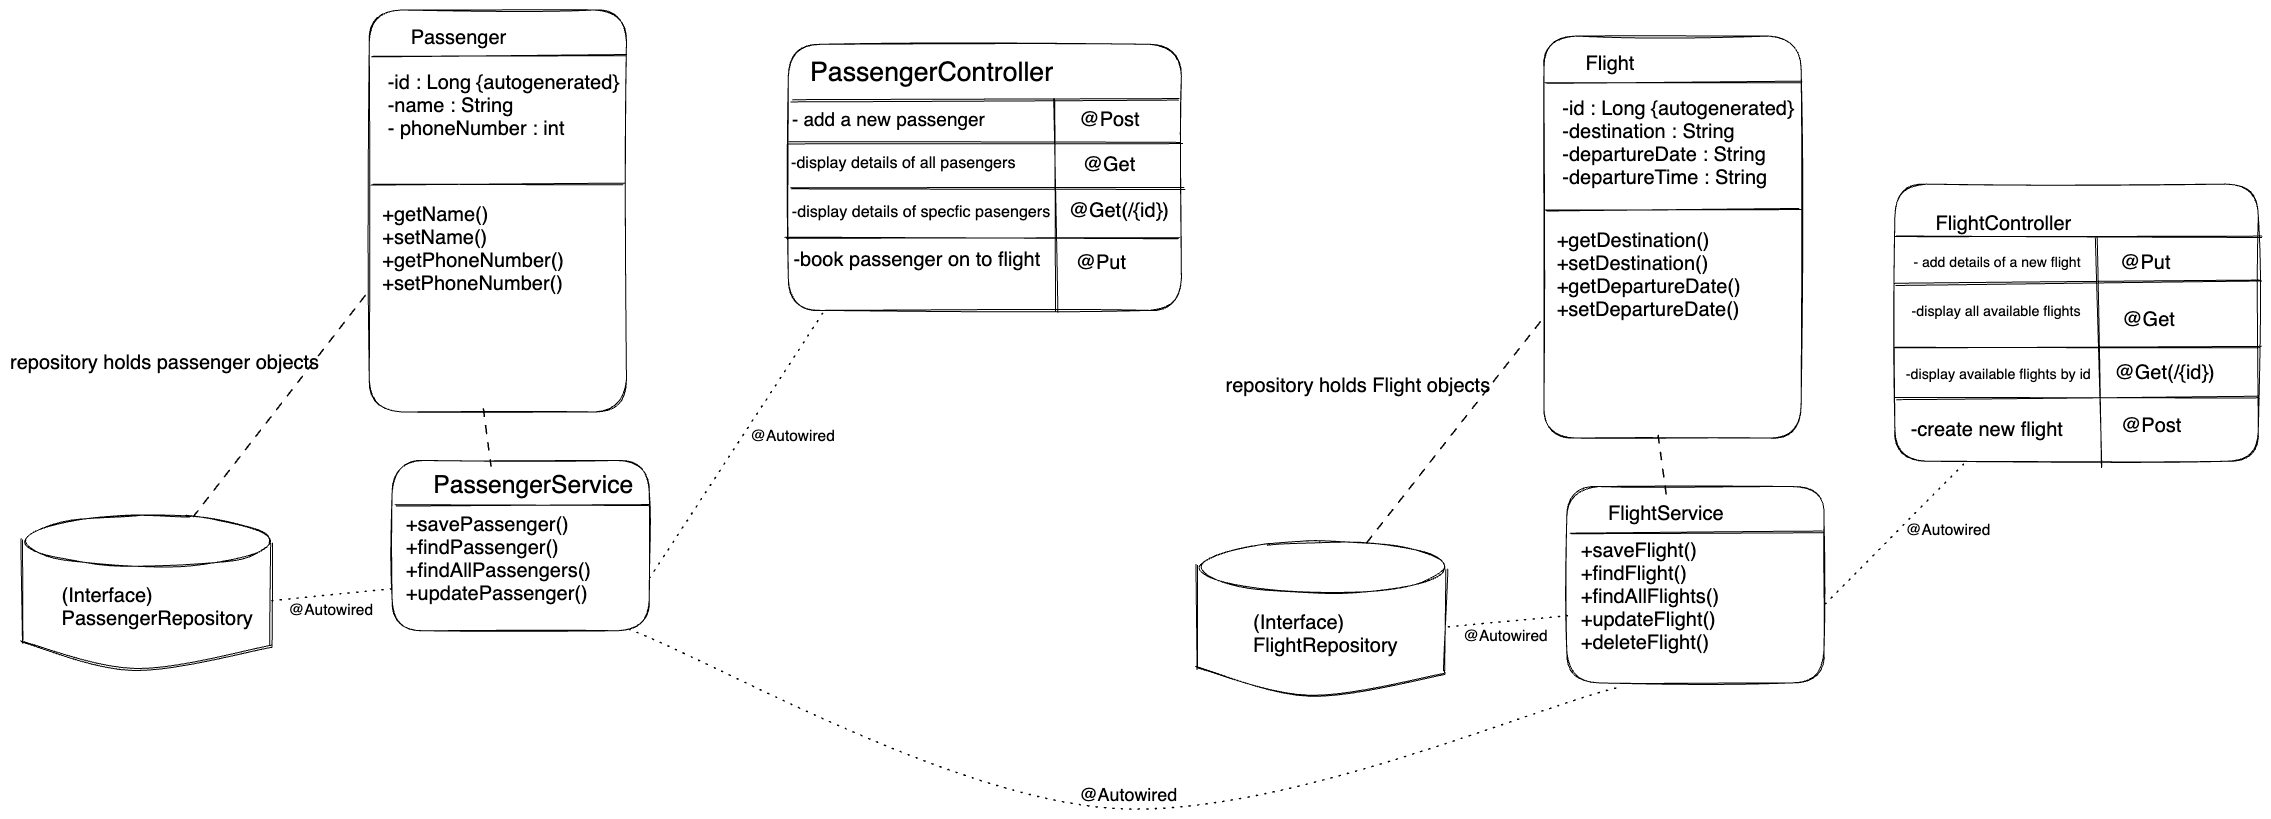
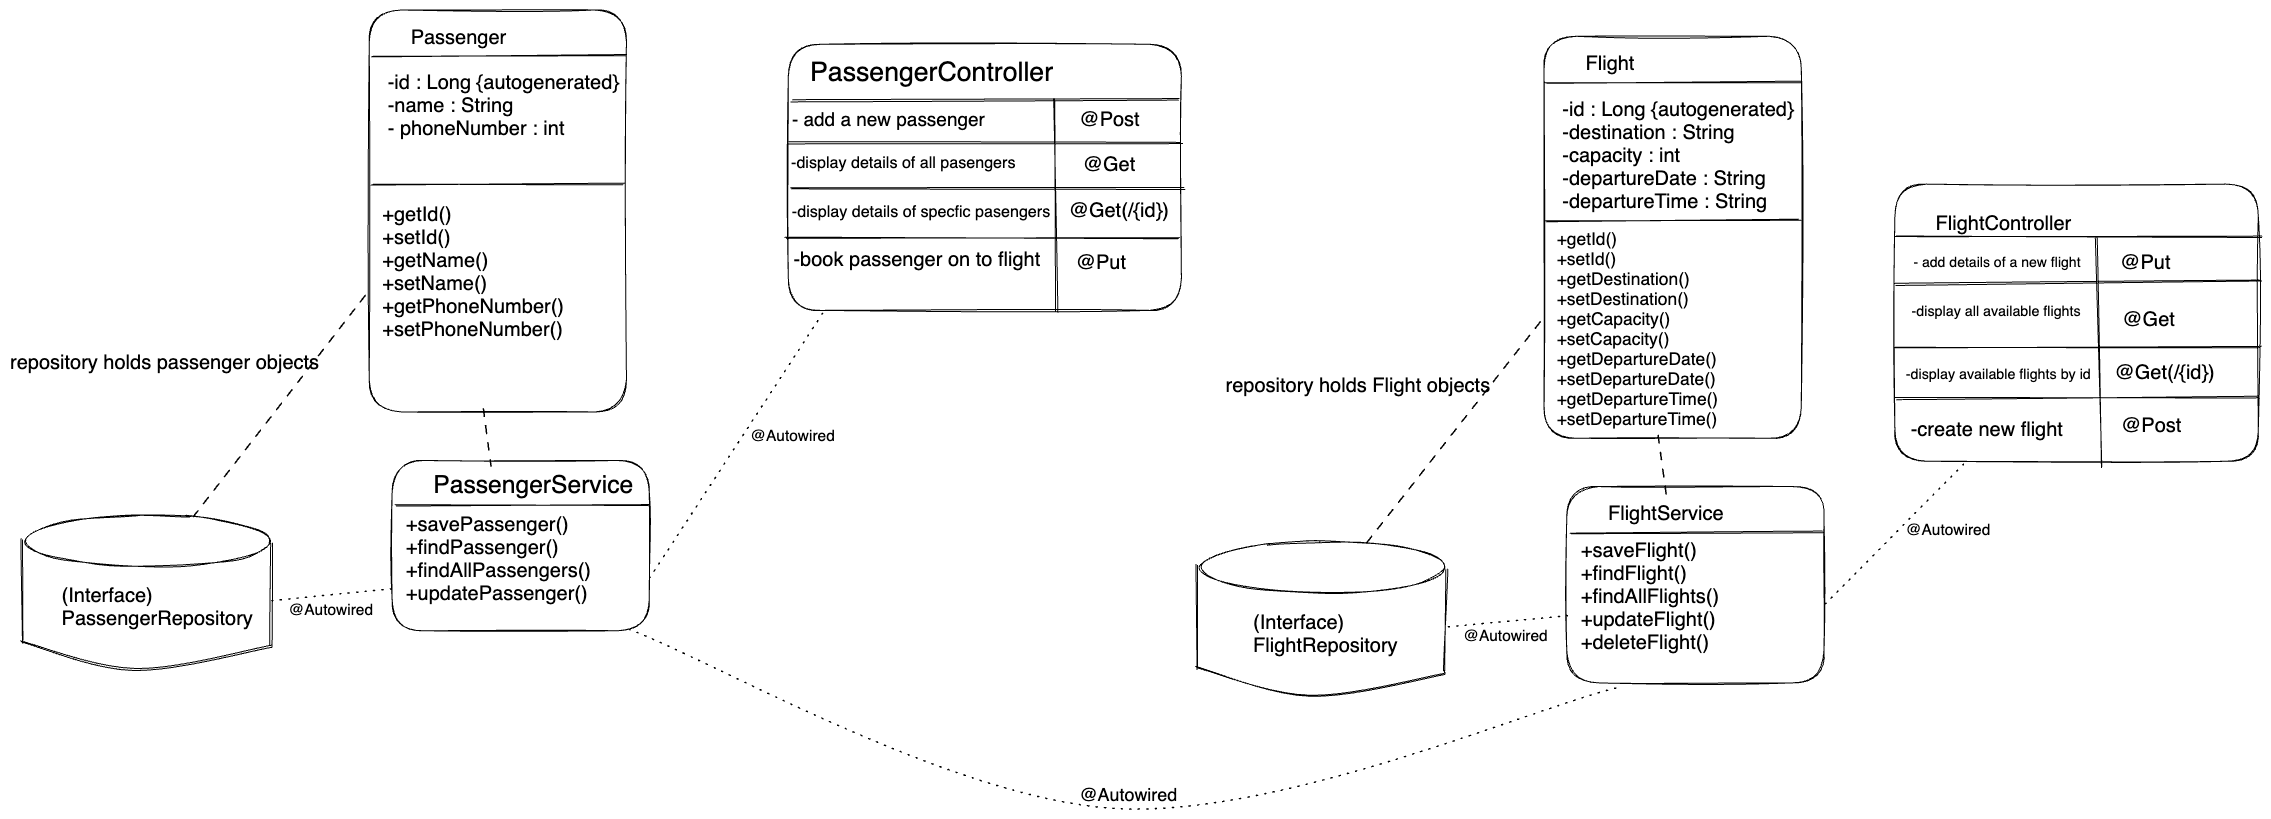
updates UML) '

Changed region(s): [[0.6781, 0.1221, 0.8014, 0.5189], [0.1541, 0.2442, 0.2466, 0.4274], [0.7089, 0.0305, 0.7398, 0.0611]]

diff --git a/airline_api/src/main/java/com/example/airline_api/models/Flight.java b/airline_api/src/main/java/com/example/airline_api/models/Flight.java
@@ -7,4 +7,7 @@ import jakarta.persistence.Table;
 @Table(name = "flights")
 public class Flight {
 
+    private Long id;
+    private String destination;
+    private 
 }
